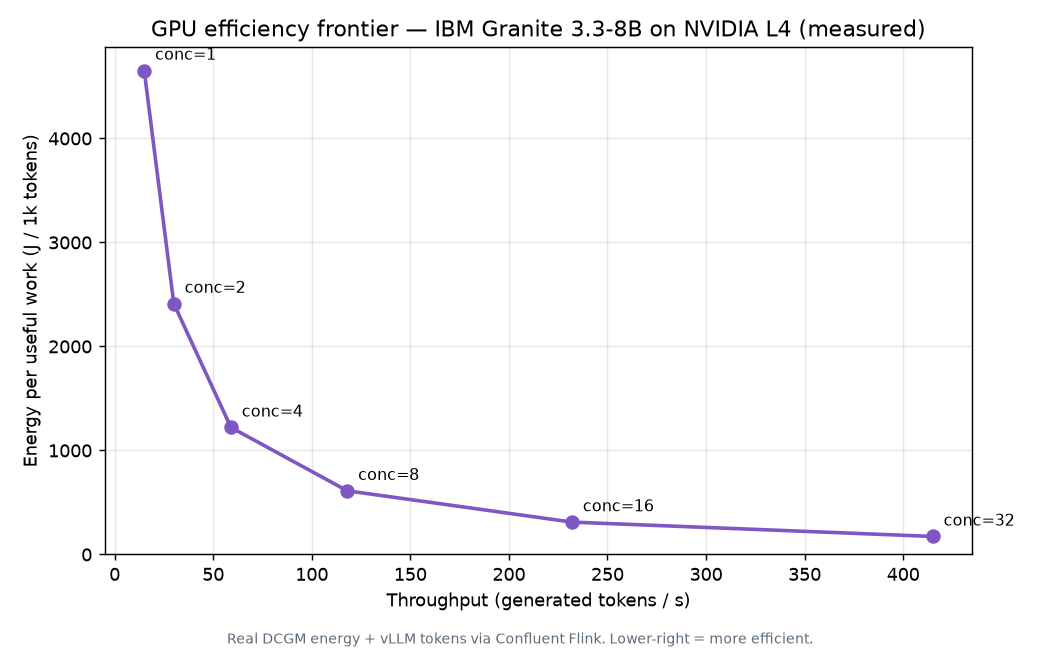
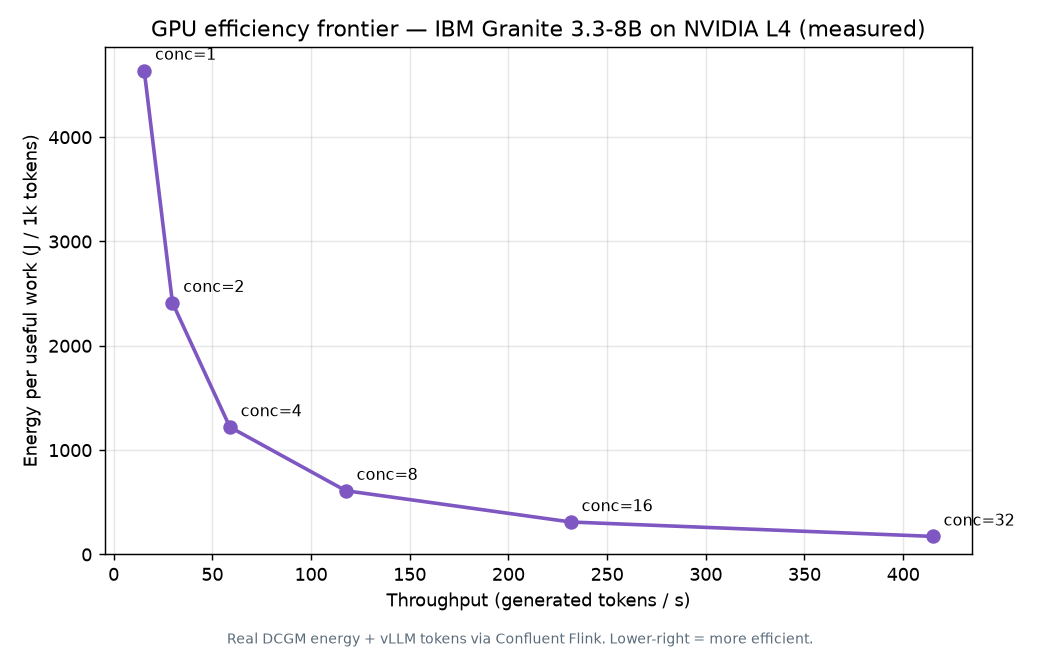
docs: drop acquisition framing; CSV self-consistency (power_w + 1dp throughput closes J/1k)

diff --git a/case-studies/granite-3.3-8b-l4/README.md b/case-studies/granite-3.3-8b-l4/README.md
@@ -4,12 +4,8 @@
 synthetic quickstart. No synthetic values appear in this case study — every number below comes from a
 real vLLM server + NVIDIA DCGM exporter, bridged to Kafka, and the raw data is attached for audit.
 
-> Context: IBM **completed its acquisition of Confluent** on 2026-03-17
-> ([Confluent press release](https://www.confluent.io/press-release/ibm-completes-acquisition-of-confluent/),
-> [IBM newsroom, Dec 2025](https://newsroom.ibm.com/2025-12-08-ibm-to-acquire-confluent-to-create-smart-data-platform-for-enterprise-generative-ai)),
-> making "IBM Granite, served on open vLLM, governed in real time on Confluent" a first-class
-> IBM/Red Hat/Confluent story. IBM Cloud itself documents deploying
-> [granite-3.3-8b on a single L4](https://cloud.ibm.com/docs/solution-tutorials?topic=solution-tutorials-rhoai-deploy).
+> Context: this models an **IBM Granite, served on open vLLM** workload — IBM Cloud itself
+> documents deploying [granite-3.3-8b on a single NVIDIA L4](https://cloud.ibm.com/docs/solution-tutorials?topic=solution-tutorials-rhoai-deploy).
 
 ## What was measured
 
@@ -28,12 +24,12 @@ held ≥ 3.5 min) and measured the KPI two independent ways (see *Rigor*):
 
 | Concurrency | GPU util | GPU power | Throughput | **J/1k (power÷tput)** | J/1k (ΔE÷Δtok) |
 |---|---|---|---|---|---|
-| 1  | ~100 % | 71.9 W | 15 tok/s  | **4 653** | 4 071 |
-| 2  | ~100 % | 71.9 W | 30 tok/s  | **2 412** | 2 561 |
-| 4  | ~100 % | 71.9 W | 59 tok/s  | **1 221** | 1 296 |
-| 8  | ~100 % | 71.9 W | 118 tok/s | **612** | 589 |
-| 16 | ~100 % | 72.0 W | 232 tok/s | **311** | 294 |
-| 32 | ~100 % | 71.9 W | 415 tok/s | **173** | 152 |
+| 1  | ~100 % | 71.9 W | 15.5 tok/s | **4 639** | 4 071 |
+| 2  | ~100 % | 71.9 W | 29.8 tok/s | **2 413** | 2 561 |
+| 4  | ~100 % | 71.9 W | 58.9 tok/s | **1 221** | 1 296 |
+| 8  | ~100 % | 71.9 W | 117.6 tok/s | **611** | 589 |
+| 16 | ~100 % | 72.0 W | 231.6 tok/s | **311** | 294 |
+| 32 | ~100 % | 71.9 W | 415.0 tok/s | **173** | 152 |
 | idle | ~0 % | 34.9 W | 0 | **NULL** | NULL |
 
 ![Efficiency frontier](../../assets/efficiency-frontier.png)
@@ -42,7 +38,7 @@ How to read it:
 
 - **The efficiency frontier.** Batching throughput scales ~linearly (15 → 415 tok/s) while power stays
   flat at the **L4 TDP (~72 W) across every loaded level**, so energy per useful token collapses
-  **~27× (4 653 → 173 J/1k)**. Because power is constant, the frontier is essentially
+  **~27× (4 639 → 173 J/1k)**. Because power is constant, the frontier is essentially
   `J/1k ≈ TDP / throughput` — it is *throughput-driven*. That curve is the real, measured efficiency
   frontier for Granite-3.3-8B on an L4.
 - **Utilization lies; energy-per-useful-work tells the truth.** GPU utilization was **~100 % at every

diff --git a/CHANGELOG.md b/CHANGELOG.md
@@ -14,7 +14,7 @@ Measured case study + real-source bridge. Reframed from monitoring to **GPU cost
 - **Measured case study** ([`case-studies/granite-3.3-8b-l4/`](case-studies/granite-3.3-8b-l4/)):
   100% real telemetry from **IBM Granite 3.3-8B Instruct** (Red Hat AI FP16 distribution) served by
   **vLLM** on a real **NVIDIA L4**, through the same Flink pipeline. A **fixed-concurrency sweep
-  (1→32)** measured the **efficiency frontier**: `joules_per_1k_tokens` falls ~27× from **4 653 (conc 1)
+  (1→32)** measured the **efficiency frontier**: `joules_per_1k_tokens` falls ~27× from **4 639 (conc 1)
   to 173 (conc 32)** as throughput scales 15→415 tok/s (`J/1k ≈ TDP/throughput`), with **`NULL` at idle**. Includes the
   interval-method audit, a dual-method power cross-check (instantaneous power_watts pinned at ~72 W TDP,
   primary; counter-delta ΔE/Δtokens agreeing within ±13%), cross-run reproducibility (conc 32 = 173 J/1k

diff --git a/README.md b/README.md
@@ -11,7 +11,7 @@ S3**, governed by **Schema Registry** and visualized in **Stream Lineage**.
 
 > **📊 Measured case study:** this pipeline was run against a **real IBM Granite 3.3-8B Instruct
 > deployment on a real NVIDIA L4** (vLLM + NVIDIA DCGM, 100% real telemetry). Measured **efficiency
-> frontier** across a concurrency sweep: **173 J/1k tokens at concurrency 32, rising ~27× to 4 653 at
+> frontier** across a concurrency sweep: **173 J/1k tokens at concurrency 32, rising ~27× to 4 639 at
 > concurrency 1, and `NULL` (maximum waste) at idle** — see
 > [`case-studies/granite-3.3-8b-l4/`](case-studies/granite-3.3-8b-l4/) (raw data + plot + reproduction
 > included). The synthetic producer below is the **reproducible quickstart (no GPU required)**.

diff --git a/examples/sample-output.md b/examples/sample-output.md
@@ -2,7 +2,7 @@
 
 > **REAL hardware results** (IBM Granite 3.3-8B on a real NVIDIA L4, vLLM + DCGM, 100% real telemetry)
 > live in the [measured case study](../case-studies/granite-3.3-8b-l4/) with the raw JSONL attached.
-> Measured efficiency frontier (concurrency sweep): **173 J/1k @ conc 32 · 311 @ 16 · 612 @ 8 · 4 653
+> Measured efficiency frontier (concurrency sweep): **173 J/1k @ conc 32 · 311 @ 16 · 611 @ 8 · 4 639
 > @ conc 1 · `NULL` (max waste) idle**. The rows below are from the **synthetic quickstart** run (real
 > pipeline output, synthetic input).
 